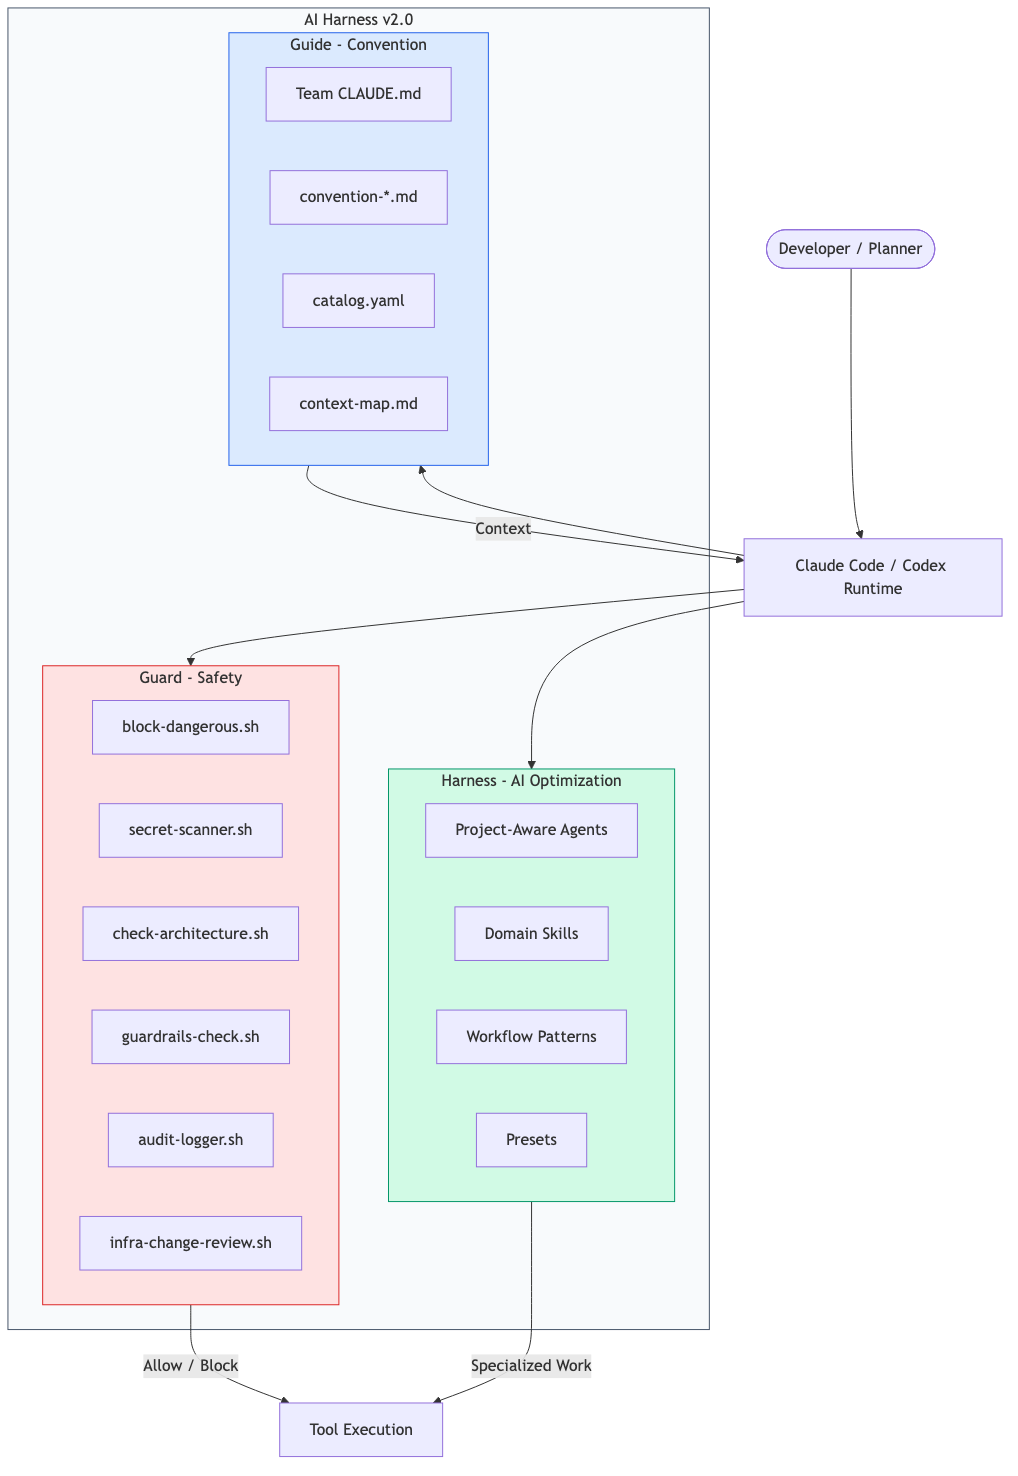
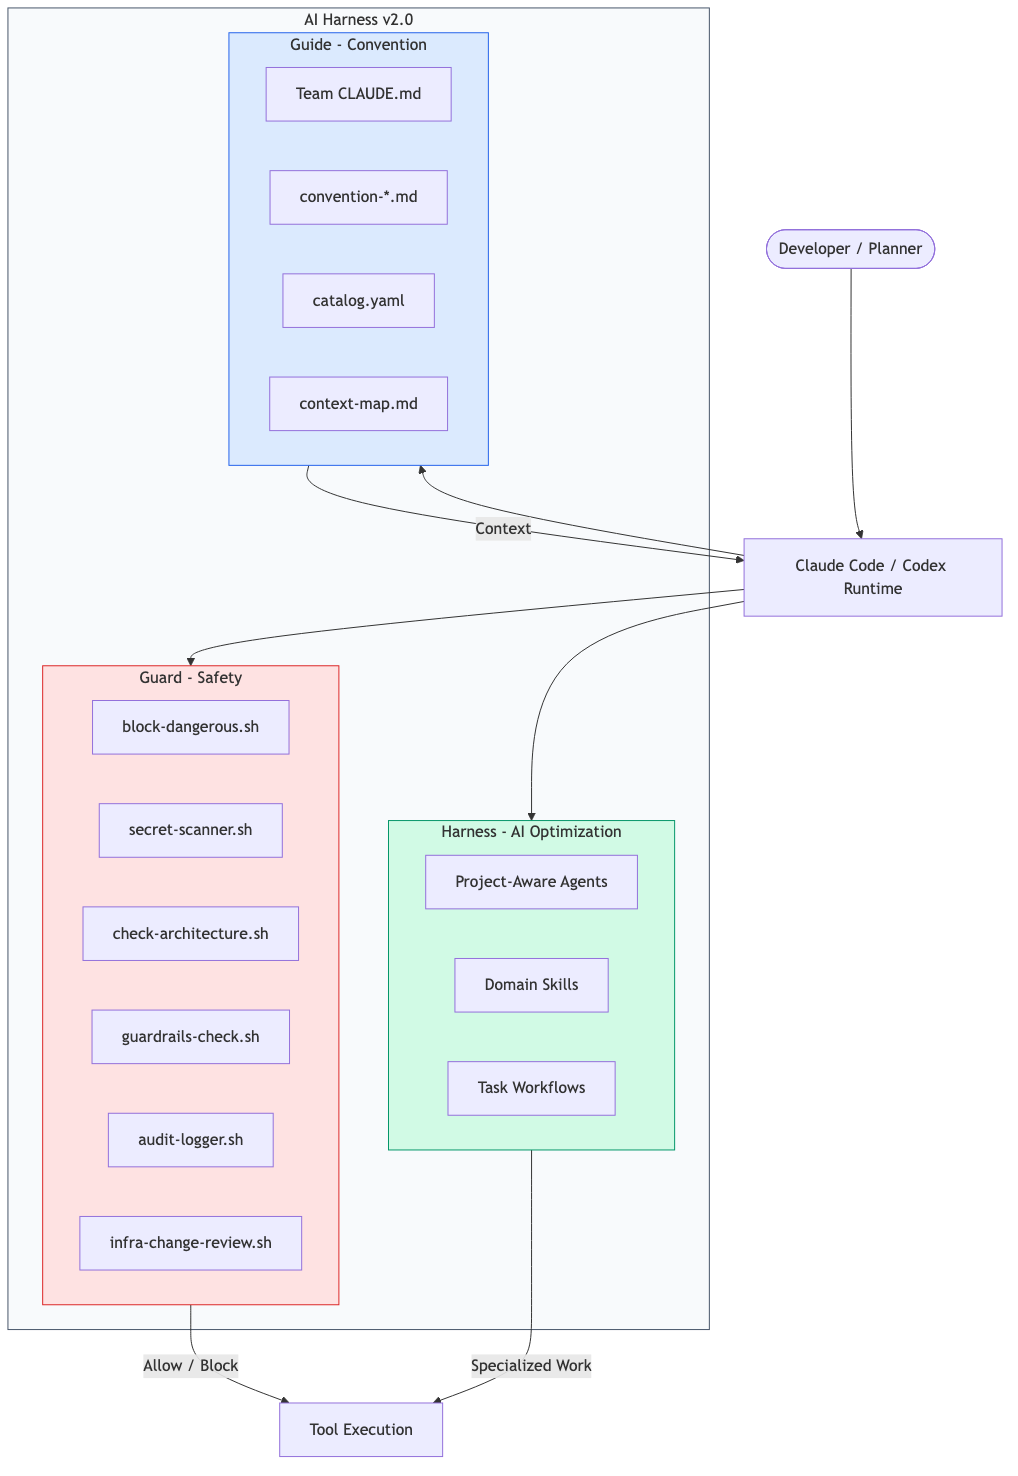
docs: Three-Pillar 다이어그램에서 Presets → Task Workflows로 변경

Changed region(s): [[0.3654, 0.4675, 0.6699, 0.8415]]

diff --git a/docs/architecture-diagram.md b/docs/architecture-diagram.md
@@ -28,8 +28,7 @@ graph TB
         subgraph Optimize["⚡ Harness (AI 최적화)"]
             O1[Project-Aware Agents]
             O2[Domain Skills]
-            O3[Workflow Patterns]
-            O4[Presets]
+            O3[Task Workflows]
         end
     end
 
